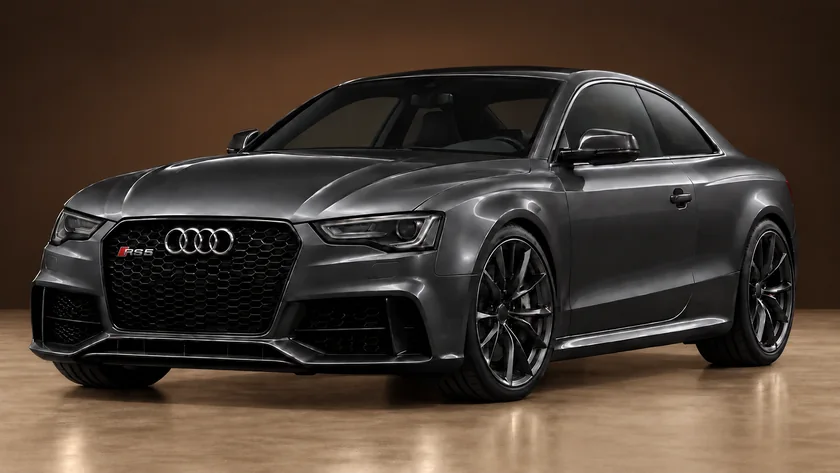
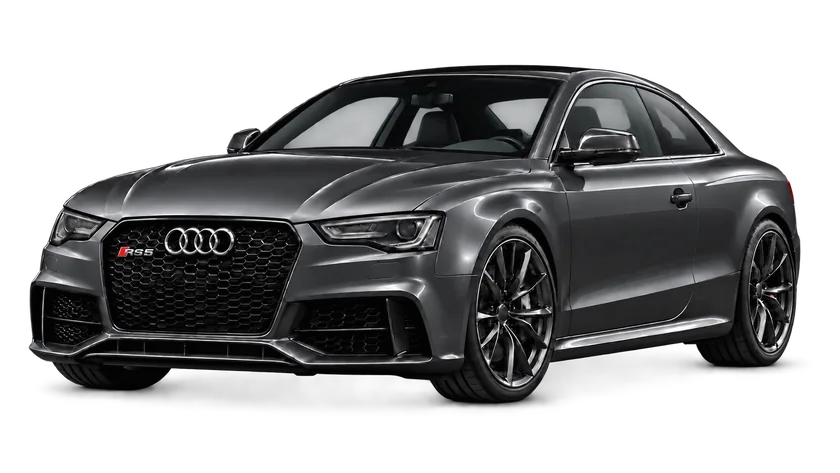
Use a transparent car cutout for a seamless match with the hero background

diff --git a/Source/styles.css b/Source/styles.css
@@ -131,8 +131,7 @@ body::before{content:"";position:fixed;inset:0 0 auto;height:env(safe-area-inset
 .hero .btn-ghost:hover{border-color:var(--hero-btn);background:#ecd9be0d}
 .hero .btn-lg{min-height:52px;font-size:15px;padding-inline:24px}
 .hero-visual{position:relative;min-width:0;direction:ltr}
-.hero-car{position:relative;aspect-ratio:1672/941;width:100%;isolation:isolate;mask-image:linear-gradient(90deg,transparent,#000 6%,#000 94%,transparent)}
-.hero-car::after{content:"";position:absolute;inset:0;pointer-events:none;background:linear-gradient(90deg,var(--hero-bg),transparent 10%,transparent 90%,var(--hero-bg)),linear-gradient(0deg,var(--hero-bg),transparent 20%,transparent 86%,var(--hero-bg))}
+.hero-car{position:relative;aspect-ratio:1672/941;width:100%;isolation:isolate}
 .hero-car img{width:100%;height:100%;max-width:none}
 .car-lights{position:absolute;inset:0;width:100%;height:100%;pointer-events:none;overflow:visible}
 .lamp-stroke{stroke:#f0f8ff;stroke-width:4.2;stroke-linecap:round;stroke-linejoin:round;stroke-dasharray:1;stroke-dashoffset:0}

diff --git a/Source/MAINTENANCE-AR.md b/Source/MAINTENANCE-AR.md
@@ -92,13 +92,13 @@ bash Source/tools/package-store.sh
 
 العربية هي الافتراضية باتجاه RTL، والإنجليزية متاحة من زر اللغة باتجاه LTR. اختيار اللغة محفوظ بالمفتاح `wh-lang`. يستخدم `app.js` الدالتين `tr(ar, en)` للنصوص و`L(object, key)` للحقول المنتهية بـ`Ar` و`En`. حافظ على تعيين `lang` و`dir` على عنصر `html` عند إعادة الرسم.
 
-المظهر يتبع `prefers-color-scheme`، وتدعم CSS أيضاً تعيين `data-theme="light"` أو `data-theme="dark"` على الجذر. لوحة الموقع بني دافئ وبيج: الواجهة الأولى بني شوكولاتة `#302118` في المظهرين، مع نص وأزرار كريمية؛ بقية الأقسام بيج رملي وأسْطح كريمية في الفاتح، وبني داكن وأسْطح جوزية ونص بيج في الغامق. متغيرات `--bg` و`--surface` و`--sunk` تضبط الأقسام والبطاقات والنماذج؛ ومتغيرات `--hero-*` تضبط الواجهة وحدود تدرج صورة السيارة. لا تصبغ جسم السيارة أو الشعارات أو طبقة LED بفلاتر الألوان عند تعديل اللوحة. اختبر اللغتين والمظهرين، ولا تفترض أن تغيير اللون يؤثر فقط في العربية.
+المظهر يتبع `prefers-color-scheme`، وتدعم CSS أيضاً تعيين `data-theme="light"` أو `data-theme="dark"` على الجذر. لوحة الموقع بني دافئ وبيج: الواجهة الأولى بني شوكولاتة `#302118` في المظهرين، مع نص وأزرار كريمية؛ بقية الأقسام بيج رملي وأسْطح كريمية في الفاتح، وبني داكن وأسْطح جوزية ونص بيج في الغامق. متغيرات `--bg` و`--surface` و`--sunk` تضبط الأقسام والبطاقات والنماذج؛ ومتغيرات `--hero-*` تضبط لون الواجهة ونصوصها وأزرارها. لا تصبغ جسم السيارة أو الشعارات أو طبقة LED بفلاتر الألوان عند تعديل اللوحة. اختبر اللغتين والمظهرين، ولا تفترض أن تغيير اللون يؤثر فقط في العربية.
 
 الأسماء في صف الماركات إنجليزية في اللغتين، بالترتيب `Audi` ثم `Volkswagen` ثم `Porsche`، مع شعار كل اسم. القائمة `.hero-specialism` لها `dir="ltr"`؛ لا تعكس ترتيب العناصر مع RTL. صور الشعارات لها `alt=""` لأن الاسم مكتوب بجانبها، لتجنب تكراره لقارئ الشاشة. لا تضف مقدمة «متخصصين» أو `Specialists` إلى هذا الصف.
 
 ## الواجهة الأولى والسيارة وإضاءة LED
 
-صورة الواجهة توضيحية لكوبيه فحمية بطابع 2016، بحلقات Audi وشارة RS5 داخل الشبك، داخل استوديو بخلفية بني دافئ وأرضية بيج. ألوان الخلفية والأرضية جزء من الصورة نفسها لتنسجم مع واجهة الموقع؛ جسم السيارة يبقى رمادياً معدنياً. ليست صورة سيارة زبون أو صورة من المركز. السيارة ثابتة؛ الحركة تخص إضاءة المصابيح فقط، وليست فيديو أو حركة جسم السيارة.
+صورة الواجهة توضيحية لكوبيه فحمية بطابع 2016، بحلقات Audi وشارة RS5 داخل الشبك، مقصوصة بخلفية شفافة وظل خفيف أسفل السيارة. تُحفظ الشفافية في أصل PNG ونسختي WebP حتى تظهر السيارة مباشرة فوق لون الواجهة `--hero-bg`؛ لا توجد أرضية بيج أو خلفية استوديو منفصلة. لا تضف قناع حواف أو طبقة تدرج فوق الصورة؛ قناة الشفافية تحقق الاندماج دون صبغ جسم السيارة أو قطع حوافها. جسم السيارة رمادي معدني. ليست صورة سيارة زبون أو صورة من المركز. السيارة ثابتة؛ الحركة تخص إضاءة المصابيح فقط، وليست فيديو أو حركة جسم السيارة.
 
 | أصل التشغيل | الأبعاد |
 |---|---|

diff --git a/Source/ASSET-SOURCES.md b/Source/ASSET-SOURCES.md
@@ -22,8 +22,8 @@
 
 | الملف | الوصف |
 |---|---|
-| `assets/coupe-studio.webp` | صورة توضيحية خاصة للواجهة، 1672×941، لكوبيه فحمية بطابع 2016، بحلقات Audi وشارة RS5 داخل الشبك، وخلفية استوديو بنية وأرضية بيج. |
-| `assets/coupe-studio-mobile.webp` | النسخة المحسّنة للموبايل، 840×473، بالكادر نفسه. |
+| `assets/coupe-studio.webp` | صورة توضيحية خاصة للواجهة، 1672×941، لكوبيه فحمية بطابع 2016، بحلقات Audi وشارة RS5 داخل الشبك، بخلفية شفافة وظل خفيف؛ يظهر خلفها لون الواجهة نفسه. |
+| `assets/coupe-studio-mobile.webp` | النسخة المحسّنة للموبايل، 840×473، بالكادر والشفافية نفسيهما. |
 | `assets/favicon.svg` | علامة WH المرسومة للموقع. |
 | رسومات تقرير الفحص داخل `app.js` | رسومات خطية توضيحية؛ يظهر وصف «رسم توضيحي» عند استخدامها بدلاً من صورة مرفوعة. |
 
